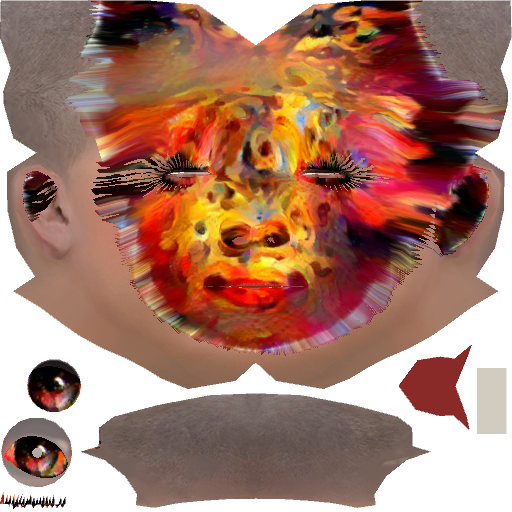
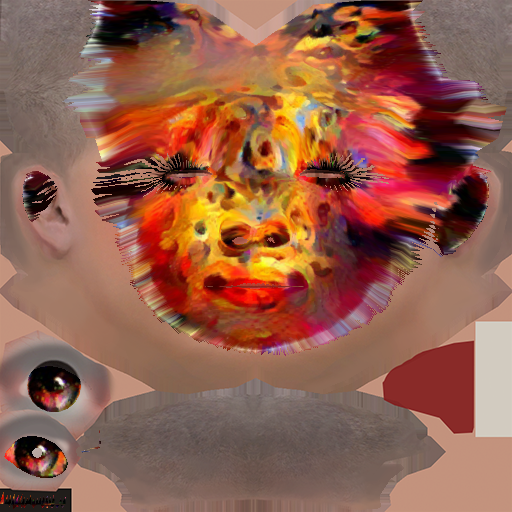
face synthesize

diff --git a/HeadShowcase/Assets/UVExport/Scripts/HeadSynthesize.cs b/HeadShowcase/Assets/UVExport/Scripts/HeadSynthesize.cs
@@ -60,12 +60,17 @@ public class HeadSynthesize : MonoBehaviour
 
     private void DoSynthesize( Camera cam )
     {
+        Graphics.Blit(MainTex, SynthesizeRT);
         Material runtime_mat = GameObject.Instantiate(SynthesizeMaterial);
         runtime_mat.SetTexture("_StyleImage", StylizedImage);
         runtime_mat.SetTexture("_DepthImage", DepthRT);
         HeadMesh.sharedMaterial = runtime_mat;
+        // don't clear anything, I need the main tex color in Synthesize RenderTexture
+        CameraClearFlags clear_flags = cam.clearFlags;
+        cam.clearFlags = CameraClearFlags.Nothing;
         cam.targetTexture = SynthesizeRT;
         cam.Render();
+        cam.clearFlags = clear_flags;
         
 
     }
